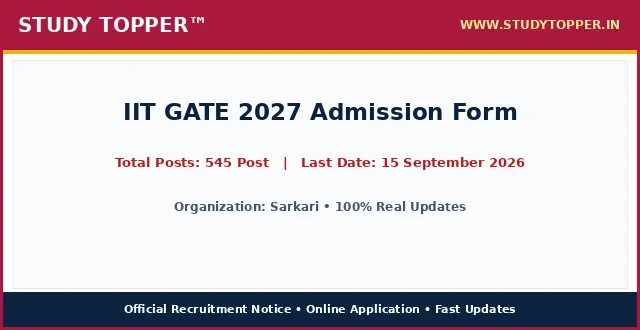
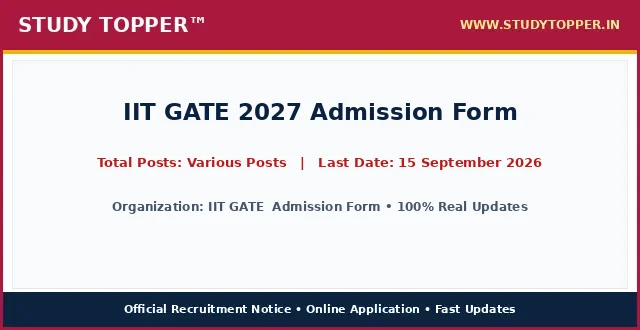
chore(lifecycle): daily auto-sort vacancies and update active dates

Changed region(s): [[0.1562, 0.4545, 0.8438, 0.5152], [0.1562, 0.6061, 0.8438, 0.6667]]

diff --git a/pages/iit-gate-2027.html b/pages/iit-gate-2027.html
@@ -987,12 +987,12 @@ ul.wp-block-latest-posts a:hover {
 <main class="site-main" id="main">
 <div class="gb-container gb-container-b39c368c">
 <h1 class="gb-headline gb-headline-e52a0102 gb-headline-text" style="font-size: 22px; font-weight: 700; color: #0000cd; text-align: left; margin: 8px 0 4px 0; line-height: 1.3; width: 100%; font-family: '-apple-system, BlinkMacSystemFont, 'Segoe UI', Roboto, 'Helvetica Neue', Arial, sans-serif', Times, serif, Hind, sans-serif;">IIT GATE 2027 Admission Form</h1>
-<div class="gb-container gb-container-659bd175"><p style="color: #cd0808; font-weight: 700; font-size: 15px; margin: 2px 0 7px 0; text-align: left; font-family: '-apple-system, BlinkMacSystemFont, 'Segoe UI', Roboto, 'Helvetica Neue', Arial, sans-serif', Times, serif, Hind, sans-serif;">Post Date: August 22, 2026 11:52 AM</p></div>
-<p class="gb-headline gb-headline-550ae316 short_Details gb-headline-text" style="width: 100%; max-width: 100%; font-size: 16.8px; line-height: 1.55; color: #000000; text-align: justify; text-justify: inter-word; margin: 8px 0 14px 0; display: block; font-family: '-apple-system, BlinkMacSystemFont, 'Segoe UI', Roboto, 'Helvetica Neue', Arial, sans-serif', Times, serif, Hind, sans-serif;"><strong style="color: #0000cd;">Sarkari</strong> has initiated the centralized online application process for <strong style="color: #cd0808;">IIT GATE 2027 Admission Form</strong> across recognized institutions and university departments. Eligible candidates seeking admission can complete the registration process before the specified deadline of 15 September 2026. The entrance evaluation and counselling allotment evaluate academic merit and entrance examination ranks. Prospective students must review detailed course eligibility, seat quotas, and reservation norms prior to submitting forms.</p>
+<div class="gb-container gb-container-659bd175"><p style="color: #cd0808; font-weight: 700; font-size: 15px; margin: 2px 0 7px 0; text-align: left; font-family: '-apple-system, BlinkMacSystemFont, 'Segoe UI', Roboto, 'Helvetica Neue', Arial, sans-serif', Times, serif, Hind, sans-serif;">Post Date: August 22, 2026 01:03 PM</p></div>
+<p class="gb-headline gb-headline-550ae316 short_Details gb-headline-text" style="width: 100%; max-width: 100%; font-size: 16.8px; line-height: 1.55; color: #000000; text-align: justify; text-justify: inter-word; margin: 8px 0 14px 0; display: block; font-family: '-apple-system, BlinkMacSystemFont, 'Segoe UI', Roboto, 'Helvetica Neue', Arial, sans-serif', Times, serif, Hind, sans-serif;"><strong style="color: #0000cd;">IIT GATE  Admission Form</strong> has initiated the centralized online application process for <strong style="color: #cd0808;">IIT GATE 2027 Admission Form</strong> across recognized institutions and university departments. Eligible candidates seeking admission can complete the registration process before the specified deadline of 15 September 2026. The entrance evaluation and counselling allotment evaluate academic merit and entrance examination ranks. Prospective students must review detailed course eligibility, seat quotas, and reservation norms prior to submitting forms.</p>
 <div class="gb-container gb-container-9849916c"><div class="social-buttons-compact" style="display: flex; justify-content: flex-start; align-items: center; gap: 10px; margin: 10px 0 16px 0; width: 100%;"><a class="social-btn-compact wa" href="https://whatsapp.com/channel/0029Va9xyz" rel="noopener" style="background-color: #00d084; color: #ffffff; padding: 10px 18px; border-radius: 4px; text-decoration: none; font-weight: bold; font-size: 15.5px; display: inline-flex; align-items: center; justify-content: center; height: auto;" target="_blank">WhatsApp</a><a class="social-btn-compact tg" href="https://t.me/studytopperofficial" rel="noopener" style="background-color: #0088cc; color: #ffffff; padding: 10px 18px; border-radius: 4px; text-decoration: none; font-weight: bold; font-size: 15.5px; display: inline-flex; align-items: center; justify-content: center; height: auto;" target="_blank">Telegram</a></div></div>
 <div class="gb-container gb-container-f58e6ca1" style="border: 2px solid #5b032f; border-radius: 4px; overflow: hidden; margin: 15px 0 20px 0; background-color: #ffffff; width: 100%; box-sizing: border-box;">
 <h2 class="gb-headline gb-headline-2ca5a791 gb-headline-text" style="font-size: 16px; font-weight: 700; text-align: center; color: #ef0303; line-height: 1.3; padding: 6px 4px; margin: 0; background: #ffffff; font-family: '-apple-system, BlinkMacSystemFont, 'Segoe UI', Roboto, 'Helvetica Neue', Arial, sans-serif', Times, serif, Hind, sans-serif;">IIT GATE 2027 Admission Form &ndash; Latest Details &amp; Updates</h2>
-<h3 class="gb-headline gb-headline-7d5f86e8 gb-headline-text" style="font-size: 16px; font-weight: 600; text-align: center; color: #009703; line-height: 1.25; margin: 0; padding: 2px 4px 6px 4px; background: #ffffff; font-family: '-apple-system, BlinkMacSystemFont, 'Segoe UI', Roboto, 'Helvetica Neue', Arial, sans-serif', Times, serif, Hind, sans-serif;">Sarkari : Details &amp; Summary</h3>
+<h3 class="gb-headline gb-headline-7d5f86e8 gb-headline-text" style="font-size: 16px; font-weight: 600; text-align: center; color: #009703; line-height: 1.25; margin: 0; padding: 2px 4px 6px 4px; background: #ffffff; font-family: '-apple-system, BlinkMacSystemFont, 'Segoe UI', Roboto, 'Helvetica Neue', Arial, sans-serif', Times, serif, Hind, sans-serif;">IIT GATE  Admission Form : Details &amp; Summary</h3>
 <p class="gb-headline gb-headline-79adf169 gb-headline-text" style="margin: 0 0 6px 0; font-family: '-apple-system, BlinkMacSystemFont, 'Segoe UI', Roboto, 'Helvetica Neue', Arial, sans-serif', Times, serif, Hind, sans-serif; text-align: center; font-size: 18px; font-weight: 700;"><a href="/" style="color: #0000ff; text-decoration: underline;">StudyTopper.in</a></p>
 
 <style id="st-post-boxes-responsive-css">
@@ -1025,7 +1025,7 @@ ul.wp-block-latest-posts a:hover {
     <div style="background-color: #5b032f; color: #ffffff; padding: 8px 10px; font-size: 20px; font-weight: 700; text-align: center; font-family: '-apple-system, BlinkMacSystemFont, 'Segoe UI', Roboto, 'Helvetica Neue', Arial, sans-serif', Times, serif, Hind, sans-serif;">Admission Schedule Dates</div>
     <div style="padding: 12px 14px; background-color: #ffffff;">
       <ul style="padding-left: 20px; margin: 0; list-style-type: disc; text-align: left; font-size: 14pt; line-height: 1.6; font-family: '-apple-system, BlinkMacSystemFont, 'Segoe UI', Roboto, 'Helvetica Neue', Arial, sans-serif', Times, serif, Hind, sans-serif;">
-        
+        <li><span style="font-size: 14pt;">Application Begin : <strong>Check Official Notification</strong></span></li><li><span style="font-size: 14pt;">Last Date for Apply Online : <span style="color: #ff0000;"><strong>15 September 2026</strong></span></span></li><li><span style="font-size: 14pt;">Pay Exam Fee Last Date : <span style="color: #ff0000;"><strong>15 September 2026</strong></span></span></li><li><span style="font-size: 14pt;">Exam Date : <strong>As per Schedule</strong></span></li>
       </ul>
     </div>
   </div>
@@ -1034,7 +1034,7 @@ ul.wp-block-latest-posts a:hover {
     <div style="background-color: #5b032f; color: #ffffff; padding: 8px 10px; font-size: 20px; font-weight: 700; text-align: center; font-family: '-apple-system, BlinkMacSystemFont, 'Segoe UI', Roboto, 'Helvetica Neue', Arial, sans-serif', Times, serif, Hind, sans-serif;">Application &amp; Counselling Fee</div>
     <div style="padding: 12px 14px; background-color: #ffffff;">
       <ul style="padding-left: 20px; margin: 0; list-style-type: disc; text-align: left; font-size: 14pt; line-height: 1.6; font-family: '-apple-system, BlinkMacSystemFont, 'Segoe UI', Roboto, 'Helvetica Neue', Arial, sans-serif', Times, serif, Hind, sans-serif;">
-        <li><span style="font-size: 14pt;">Bihar Police BPSSC Sub Inspector SI Prohibition Result 2026 Advt. No. : <strong>03/2026</strong></span></li><li><span style="font-size: 14pt;">UP Scholarship Online Form 2026 : <strong>2027</strong></span></li>
+        <li><span style="font-size: 14pt;">General / OBC / EWS : <strong>Check Official Notification</strong></span></li><li><span style="font-size: 14pt;">SC / ST / PH : <strong>Check Official Notification</strong></span></li><li><span style="font-size: 14pt;">Payment Mode : <strong>Online / Offline Fee Mode as per Notification</strong></span></li>
       </ul>
       <div style="margin-top: 10px; font-size: 14pt; line-height: 1.5; color: #000000; border-top: 1px dashed #ccc; padding-top: 8px; font-family: '-apple-system, BlinkMacSystemFont, 'Segoe UI', Roboto, 'Helvetica Neue', Arial, sans-serif', Times, serif, Hind, sans-serif;">
         <strong>Mode of Payment / Access:</strong> Online via Net Banking, Debit Card, Credit Card, UPI or Free Candidate Portal.
@@ -1047,10 +1047,10 @@ ul.wp-block-latest-posts a:hover {
 <div class="st-grid-row" style="display: flex; flex-wrap: wrap; width: 100%; border-top: 2px solid #5b032f; margin: 0; padding: 0; box-sizing: border-box;">
   <!-- Left Col: Age Limits -->
   <div class="st-col-half st-col-border-right" style="box-sizing: border-box; vertical-align: top;">
-    <div style="background-color: #046132; color: #ffffff; padding: 8px 10px; font-size: 17px; font-weight: 700; text-align: center; font-family: '-apple-system, BlinkMacSystemFont, 'Segoe UI', Roboto, 'Helvetica Neue', Arial, sans-serif', Times, serif, Hind, sans-serif;">Sarkari : Age Criteria As On 01 August 2026</div>
+    <div style="background-color: #046132; color: #ffffff; padding: 8px 10px; font-size: 17px; font-weight: 700; text-align: center; font-family: '-apple-system, BlinkMacSystemFont, 'Segoe UI', Roboto, 'Helvetica Neue', Arial, sans-serif', Times, serif, Hind, sans-serif;">IIT GATE  Admission Form : Age Criteria As On 01/08/2026</div>
     <div style="padding: 12px 14px; background-color: #ffffff;">
       <ul style="padding-left: 20px; margin: 0; list-style-type: disc; text-align: left; font-size: 14pt; line-height: 1.6; font-family: '-apple-system, BlinkMacSystemFont, 'Segoe UI', Roboto, 'Helvetica Neue', Arial, sans-serif', Times, serif, Hind, sans-serif;">
-        
+        <li><span style="font-size: 14pt;">Minimum Age : <strong>18 Years (As per post rules)</strong></span></li><li><span style="font-size: 14pt;">Maximum Age : <strong>40 Years (As per post rules)</strong></span></li><li><span style="font-size: 14pt;">Age Relaxation : <strong>Age Relaxation Extra as per IIT GATE  Admission Form Recruitment Rules.</strong></span></li>
       </ul>
     </div>
   </div>
@@ -1058,7 +1058,7 @@ ul.wp-block-latest-posts a:hover {
   <div class="st-col-half" style="box-sizing: border-box; vertical-align: top;">
     <div style="background-color: #f53c00; color: #ffffff; padding: 8px 10px; font-size: 20px; font-weight: 700; text-align: center; font-family: '-apple-system, BlinkMacSystemFont, 'Segoe UI', Roboto, 'Helvetica Neue', Arial, sans-serif', Times, serif, Hind, sans-serif;">Total Seats / Quota</div>
     <div style="padding: 24px 10px; background-color: #ffffff; text-align: center;">
-      <span style="font-size: 28px; font-weight: 800; color: #000000; font-family: '-apple-system, BlinkMacSystemFont, 'Segoe UI', Roboto, 'Helvetica Neue', Arial, sans-serif', Times, serif, Hind, sans-serif;">545 Post</span>
+      <span style="font-size: 28px; font-weight: 800; color: #000000; font-family: '-apple-system, BlinkMacSystemFont, 'Segoe UI', Roboto, 'Helvetica Neue', Arial, sans-serif', Times, serif, Hind, sans-serif;">Various Posts</span>
     </div>
   </div>
 </div>
@@ -1079,9 +1079,9 @@ ul.wp-block-latest-posts a:hover {
 <th style="background-color: #f53c00; color: #ffffff; padding: 6px 10px; text-align: center; border: 1px solid #d35400; font-size: 15px; font-weight: 700; font-family: '-apple-system, BlinkMacSystemFont, 'Segoe UI', Roboto, 'Helvetica Neue', Arial, sans-serif', Times, serif, Hind, sans-serif;">Educational Qualification &amp; Eligibility</th>
 </tr>
 <tr>
-<td style="padding: 8px; border: 1px solid #ddd; font-weight: bold;">Sarkari Recruitment</td>
-<td style="padding: 8px; border: 1px solid #ddd; text-align: center; font-weight: bold;">545 Post</td>
-<td style="padding: 8px; border: 1px solid #ddd;">Please refer to the official notification linked below for detailed educational qualifications.</td>
+<td style="padding: 8px; border: 1px solid #ddd; font-weight: bold;">IIT GATE 2027 Admission Form</td>
+<td style="padding: 8px; border: 1px solid #ddd; text-align: center; font-weight: bold;">Various Posts</td>
+<td style="padding: 8px; border: 1px solid #ddd;">Passed prescribed Educational Qualification from Any Recognized Board / University in India. Read full official notification for post-wise eligibility criteria.</td>
 </tr>
 </tbody>
 </table>
@@ -1093,7 +1093,7 @@ ul.wp-block-latest-posts a:hover {
 <table style="border-collapse: collapse; width: 100%;">
 <tbody>
 <tr>
-<td style="width: 100%; text-align: center;"><span style="background-color: #000080; color: #ffffff; font-size: 14pt; font-weight: bold; display: block; padding: 6px;"> How to Apply for Sarkari Online Admission Form 2026 </span></td>
+<td style="width: 100%; text-align: center;"><span style="background-color: #000080; color: #ffffff; font-size: 14pt; font-weight: bold; display: block; padding: 6px;"> How to Apply for IIT GATE  Admission Form Online Admission Form 2026 </span></td>
 </tr>
 <tr>
 <td style="width: 100%;"><ol style="margin:0; padding-left:18px; text-align: left !important; list-style-position: outside !important"><li style="margin-bottom:6px; text-align: left !important;">Read the official recruitment notification carefully before applying.</li><li style="margin-bottom:6px; text-align: left !important;">Keep all basic documents ready: ID Proof, Address Details, Basic Details.</li><li style="margin-bottom:6px; text-align: left !important;">Ready your scanned documents like Photo, Signature, ID Proof, etc.</li><li style="margin-bottom:6px; text-align: left !important;">Click on the 'Apply Online' link given in the Important Links section below.</li><li style="margin-bottom:6px; text-align: left !important;">Fill out all the columns in the application form accurately.</li><li style="margin-bottom:6px; text-align: left !important;">Pay the required application fee if applicable.</li><li style="margin-bottom:6px; text-align: left !important;">Take a printout of the final submitted application form.</li><li style="margin-bottom:6px; text-align: left !important;">Resize candidate photograph and signature accurately using the <a href="https://indtool.in" rel="noopener" target="_blank"><strong>StudyTopper Tools</strong></a> image resizer at indtool.in.</li></ol></td>
@@ -1104,7 +1104,7 @@ ul.wp-block-latest-posts a:hover {
 <table style="border-collapse: collapse; width: 100%;">
 <tbody>
 <tr>
-<td style="width: 100%; text-align: center;"><span style="background-color: #000080; color: #ffffff; font-size: 14pt;"><strong><span style="color: #ffffff;"> Sarkari Admission 2026 : Mode of Selection &amp; Counselling </span></strong></span></td>
+<td style="width: 100%; text-align: center;"><span style="background-color: #000080; color: #ffffff; font-size: 14pt;"><strong><span style="color: #ffffff;"> IIT GATE  Admission Form Admission 2026 : Mode of Selection &amp; Counselling </span></strong></span></td>
 </tr>
 <tr>
 <td style="width: 100%;">
@@ -1144,26 +1144,50 @@ ul.wp-block-latest-posts a:hover {
 
 <tr style="border-bottom: 1px solid #000000; background-color: #fff37a;">
 <td style="width: 50%; padding: 14px 16px; border-right: 1px solid #000000; text-align: center;">
-<span style="font-size: 19px; font-weight: 800; color: #000000; font-family: '-apple-system, BlinkMacSystemFont, 'Segoe UI', Roboto, 'Helvetica Neue', Arial, sans-serif', Times, serif, Hind, sans-serif;">Apply Online (Registration / Login)</span>
+<span style="font-size: 19px; font-weight: 800; color: #000000; font-family: '-apple-system, BlinkMacSystemFont, 'Segoe UI', Roboto, 'Helvetica Neue', Arial, sans-serif', Times, serif, Hind, sans-serif;">Join Our WhatsApp Channel</span>
 </td>
 <td style="width: 50%; padding: 14px 16px; text-align: center;">
-<span style="font-size: 20px; font-weight: 800; font-family: '-apple-system, BlinkMacSystemFont, 'Segoe UI', Roboto, 'Helvetica Neue', Arial, sans-serif', Times, serif, Hind, sans-serif;"><a href="https://www.sarkariresult.com/2026/mpesb-group2-subgroup-4-aug26/" aria-label="Click Here for Apply Online (Registration / Login) - IIT GATE 2027 Admission Form" rel="noopener noreferrer" style="color: #0000ef; font-weight: 800; text-decoration: none;" target="_blank">Click Here</a></span>
+<span style="font-size: 20px; font-weight: 800; font-family: '-apple-system, BlinkMacSystemFont, 'Segoe UI', Roboto, 'Helvetica Neue', Arial, sans-serif', Times, serif, Hind, sans-serif;"><a href="https://whatsapp.com/channel/0029VaAbQf01NCrYADMLt00L" aria-label="Click Here for Join Our WhatsApp Channel - IIT GATE 2027 Admission Form" rel="noopener noreferrer" style="color: #0000ef; font-weight: 800; text-decoration: none;" target="_blank">Click Here</a></span>
 </td>
 </tr>
 <tr style="border-bottom: 1px solid #000000; background-color: #fff37a;">
 <td style="width: 50%; padding: 14px 16px; border-right: 1px solid #000000; text-align: center;">
-<span style="font-size: 19px; font-weight: 800; color: #000000; font-family: '-apple-system, BlinkMacSystemFont, 'Segoe UI', Roboto, 'Helvetica Neue', Arial, sans-serif', Times, serif, Hind, sans-serif;">Download Information Brochure PDF</span>
+<span style="font-size: 19px; font-weight: 800; color: #000000; font-family: '-apple-system, BlinkMacSystemFont, 'Segoe UI', Roboto, 'Helvetica Neue', Arial, sans-serif', Times, serif, Hind, sans-serif;">Join Our Telegram Channel</span>
 </td>
 <td style="width: 50%; padding: 14px 16px; text-align: center;">
-<span style="font-size: 20px; font-weight: 800; font-family: '-apple-system, BlinkMacSystemFont, 'Segoe UI', Roboto, 'Helvetica Neue', Arial, sans-serif', Times, serif, Hind, sans-serif;"><a href="" aria-label="Click Here for Download Information Brochure PDF - IIT GATE 2027 Admission Form" rel="noopener noreferrer" style="color: #0000ef; font-weight: 800; text-decoration: none;" target="_blank">Click Here</a></span>
+<span style="font-size: 20px; font-weight: 800; font-family: '-apple-system, BlinkMacSystemFont, 'Segoe UI', Roboto, 'Helvetica Neue', Arial, sans-serif', Times, serif, Hind, sans-serif;"><a href="https://t.me/SarkariExam_info" aria-label="Click Here for Join Our Telegram Channel - IIT GATE 2027 Admission Form" rel="noopener noreferrer" style="color: #0000ef; font-weight: 800; text-decoration: none;" target="_blank">Click Here</a></span>
 </td>
 </tr>
 <tr style="border-bottom: 1px solid #000000; background-color: #fff37a;">
 <td style="width: 50%; padding: 14px 16px; border-right: 1px solid #000000; text-align: center;">
-<span style="font-size: 19px; font-weight: 800; color: #000000; font-family: '-apple-system, BlinkMacSystemFont, 'Segoe UI', Roboto, 'Helvetica Neue', Arial, sans-serif', Times, serif, Hind, sans-serif;">Photo / Sign Resizer Tool</span>
+<span style="font-size: 19px; font-weight: 800; color: #000000; font-family: '-apple-system, BlinkMacSystemFont, 'Segoe UI', Roboto, 'Helvetica Neue', Arial, sans-serif', Times, serif, Hind, sans-serif;">Apply Online</span>
 </td>
 <td style="width: 50%; padding: 14px 16px; text-align: center;">
-<span style="font-size: 20px; font-weight: 800; font-family: '-apple-system, BlinkMacSystemFont, 'Segoe UI', Roboto, 'Helvetica Neue', Arial, sans-serif', Times, serif, Hind, sans-serif;"><a href="https://indtool.in" aria-label="Click Here for Photo / Sign Resizer Tool - IIT GATE 2027 Admission Form" rel="noopener noreferrer" style="color: #0000ef; font-weight: 800; text-decoration: none;" target="_blank">Click Here</a></span>
+<span style="font-size: 20px; font-weight: 800; font-family: '-apple-system, BlinkMacSystemFont, 'Segoe UI', Roboto, 'Helvetica Neue', Arial, sans-serif', Times, serif, Hind, sans-serif;"><a href="https://whatsapp.com/channel/0029VaAbQf01NCrYADMLt00L" aria-label="Click Here for Apply Online - IIT GATE 2027 Admission Form" rel="noopener noreferrer" style="color: #0000ef; font-weight: 800; text-decoration: none;" target="_blank">Click Here</a></span>
+</td>
+</tr>
+<tr style="border-bottom: 1px solid #000000; background-color: #fff37a;">
+<td style="width: 50%; padding: 14px 16px; border-right: 1px solid #000000; text-align: center;">
+<span style="font-size: 19px; font-weight: 800; color: #000000; font-family: '-apple-system, BlinkMacSystemFont, 'Segoe UI', Roboto, 'Helvetica Neue', Arial, sans-serif', Times, serif, Hind, sans-serif;">Check Apply Date Change Notice</span>
+</td>
+<td style="width: 50%; padding: 14px 16px; text-align: center;">
+<span style="font-size: 20px; font-weight: 800; font-family: '-apple-system, BlinkMacSystemFont, 'Segoe UI', Roboto, 'Helvetica Neue', Arial, sans-serif', Times, serif, Hind, sans-serif;"><a href="https://gate2027.iitm.ac.in/important_dates" aria-label="Click Here for Check Apply Date Change Notice - IIT GATE 2027 Admission Form" rel="noopener noreferrer" style="color: #0000ef; font-weight: 800; text-decoration: none;" target="_blank">Click Here</a></span>
+</td>
+</tr>
+<tr style="border-bottom: 1px solid #000000; background-color: #fff37a;">
+<td style="width: 50%; padding: 14px 16px; border-right: 1px solid #000000; text-align: center;">
+<span style="font-size: 19px; font-weight: 800; color: #000000; font-family: '-apple-system, BlinkMacSystemFont, 'Segoe UI', Roboto, 'Helvetica Neue', Arial, sans-serif', Times, serif, Hind, sans-serif;">Check Photo / Signature Guidlines</span>
+</td>
+<td style="width: 50%; padding: 14px 16px; text-align: center;">
+<span style="font-size: 20px; font-weight: 800; font-family: '-apple-system, BlinkMacSystemFont, 'Segoe UI', Roboto, 'Helvetica Neue', Arial, sans-serif', Times, serif, Hind, sans-serif;"><a href="https://gate2027.iitm.ac.in/photograph_and_signature" aria-label="Click Here for Check Photo / Signature Guidlines - IIT GATE 2027 Admission Form" rel="noopener noreferrer" style="color: #0000ef; font-weight: 800; text-decoration: none;" target="_blank">Click Here</a></span>
+</td>
+</tr>
+<tr style="border-bottom: 1px solid #000000; background-color: #fff37a;">
+<td style="width: 50%; padding: 14px 16px; border-right: 1px solid #000000; text-align: center;">
+<span style="font-size: 19px; font-weight: 800; color: #000000; font-family: '-apple-system, BlinkMacSystemFont, 'Segoe UI', Roboto, 'Helvetica Neue', Arial, sans-serif', Times, serif, Hind, sans-serif;">Check Official Notification</span>
+</td>
+<td style="width: 50%; padding: 14px 16px; text-align: center;">
+<span style="font-size: 20px; font-weight: 800; font-family: '-apple-system, BlinkMacSystemFont, 'Segoe UI', Roboto, 'Helvetica Neue', Arial, sans-serif', Times, serif, Hind, sans-serif;"><a href="https://gate2027.iitm.ac.in/static/doc/IB/GATE2027-IB_v1.pdf" aria-label="Click Here for Check Official Notification - IIT GATE 2027 Admission Form" rel="noopener noreferrer" style="color: #0000ef; font-weight: 800; text-decoration: none;" target="_blank">Click Here</a></span>
 </td>
 </tr>
 <tr style="border-bottom: 1px solid #000000; background-color: #fff37a;">
@@ -1171,15 +1195,55 @@ ul.wp-block-latest-posts a:hover {
 <span style="font-size: 19px; font-weight: 800; color: #000000; font-family: '-apple-system, BlinkMacSystemFont, 'Segoe UI', Roboto, 'Helvetica Neue', Arial, sans-serif', Times, serif, Hind, sans-serif;">Check Sarkari Result</span>
 </td>
 <td style="width: 50%; padding: 14px 16px; text-align: center;">
-<span style="font-size: 20px; font-weight: 800; font-family: '-apple-system, BlinkMacSystemFont, 'Segoe UI', Roboto, 'Helvetica Neue', Arial, sans-serif', Times, serif, Hind, sans-serif;"><a href="/" aria-label="Click Here for Check Sarkari Result - IIT GATE 2027 Admission Form" rel="noopener noreferrer" style="color: #0000ef; font-weight: 800; text-decoration: none;" >Click Here</a></span>
+<span style="font-size: 20px; font-weight: 800; font-family: '-apple-system, BlinkMacSystemFont, 'Segoe UI', Roboto, 'Helvetica Neue', Arial, sans-serif', Times, serif, Hind, sans-serif;"><a href="https://sarkariresult.com.cm/" aria-label="Click Here for Check Sarkari Result - IIT GATE 2027 Admission Form" rel="noopener noreferrer" style="color: #0000ef; font-weight: 800; text-decoration: none;" target="_blank">Click Here</a></span>
+</td>
+</tr>
+<tr style="border-bottom: 1px solid #000000; background-color: #fff37a;">
+<td style="width: 50%; padding: 14px 16px; border-right: 1px solid #000000; text-align: center;">
+<span style="font-size: 19px; font-weight: 800; color: #000000; font-family: '-apple-system, BlinkMacSystemFont, 'Segoe UI', Roboto, 'Helvetica Neue', Arial, sans-serif', Times, serif, Hind, sans-serif;">IIT GATE Official Website</span>
+</td>
+<td style="width: 50%; padding: 14px 16px; text-align: center;">
+<span style="font-size: 20px; font-weight: 800; font-family: '-apple-system, BlinkMacSystemFont, 'Segoe UI', Roboto, 'Helvetica Neue', Arial, sans-serif', Times, serif, Hind, sans-serif;"><a href="https://gate2027.iitm.ac.in/" aria-label="Click Here for IIT GATE Official Website - IIT GATE 2027 Admission Form" rel="noopener noreferrer" style="color: #0000ef; font-weight: 800; text-decoration: none;" target="_blank">Click Here</a></span>
+</td>
+</tr>
+<tr style="border-bottom: 1px solid #000000; background-color: #fff37a;">
+<td style="width: 50%; padding: 14px 16px; border-right: 1px solid #000000; text-align: center;">
+<span style="font-size: 19px; font-weight: 800; color: #000000; font-family: '-apple-system, BlinkMacSystemFont, 'Segoe UI', Roboto, 'Helvetica Neue', Arial, sans-serif', Times, serif, Hind, sans-serif;">Latest Posts Haryana HTET Score Card 2026 – Out SSC Delhi Police Constable (Executive) PE & MT Notice 2026 UPSC CDS-II Final Result With Marks 2026 IDBI JAM Final Result 2026 Railway RRB ALP Application Status 2026 – Out</span>
+</td>
+<td style="width: 50%; padding: 14px 16px; text-align: center;">
+<span style="font-size: 20px; font-weight: 800; font-family: '-apple-system, BlinkMacSystemFont, 'Segoe UI', Roboto, 'Helvetica Neue', Arial, sans-serif', Times, serif, Hind, sans-serif;"><a href="https://sarkariresult.com.cm/ssc-delhi-police-constable-executive-2026/" aria-label="Click Here for Latest Posts Haryana HTET Score Card 2026 – Out SSC Delhi Police Constable (Executive) PE & MT Notice 2026 UPSC CDS-II Final Result With Marks 2026 IDBI JAM Final Result 2026 Railway RRB ALP Application Status 2026 – Out - IIT GATE 2027 Admission Form" rel="noopener noreferrer" style="color: #0000ef; font-weight: 800; text-decoration: none;" target="_blank">Click Here</a></span>
+</td>
+</tr>
+<tr style="border-bottom: 1px solid #000000; background-color: #fff37a;">
+<td style="width: 50%; padding: 14px 16px; border-right: 1px solid #000000; text-align: center;">
+<span style="font-size: 19px; font-weight: 800; color: #000000; font-family: '-apple-system, BlinkMacSystemFont, 'Segoe UI', Roboto, 'Helvetica Neue', Arial, sans-serif', Times, serif, Hind, sans-serif;">Latest Posts Haryana HTET Score Card 2026 – Out SSC Delhi Police Constable (Executive) PE & MT Notice 2026 UPSC CDS-II Final Result With Marks 2026 IDBI JAM Final Result 2026 Railway RRB ALP Application Status 2026 – Out</span>
+</td>
+<td style="width: 50%; padding: 14px 16px; text-align: center;">
+<span style="font-size: 20px; font-weight: 800; font-family: '-apple-system, BlinkMacSystemFont, 'Segoe UI', Roboto, 'Helvetica Neue', Arial, sans-serif', Times, serif, Hind, sans-serif;"><a href="https://sarkariresult.com.cm/ssc-selection-phase-14-2026/" aria-label="Click Here for Latest Posts Haryana HTET Score Card 2026 – Out SSC Delhi Police Constable (Executive) PE & MT Notice 2026 UPSC CDS-II Final Result With Marks 2026 IDBI JAM Final Result 2026 Railway RRB ALP Application Status 2026 – Out - IIT GATE 2027 Admission Form" rel="noopener noreferrer" style="color: #0000ef; font-weight: 800; text-decoration: none;" target="_blank">Click Here</a></span>
+</td>
+</tr>
+<tr style="border-bottom: 1px solid #000000; background-color: #fff37a;">
+<td style="width: 50%; padding: 14px 16px; border-right: 1px solid #000000; text-align: center;">
+<span style="font-size: 19px; font-weight: 800; color: #000000; font-family: '-apple-system, BlinkMacSystemFont, 'Segoe UI', Roboto, 'Helvetica Neue', Arial, sans-serif', Times, serif, Hind, sans-serif;">Latest Posts Haryana HTET Score Card 2026 – Out SSC Delhi Police Constable (Executive) PE & MT Notice 2026 UPSC CDS-II Final Result With Marks 2026 IDBI JAM Final Result 2026 Railway RRB ALP Application Status 2026 – Out</span>
+</td>
+<td style="width: 50%; padding: 14px 16px; text-align: center;">
+<span style="font-size: 20px; font-weight: 800; font-family: '-apple-system, BlinkMacSystemFont, 'Segoe UI', Roboto, 'Helvetica Neue', Arial, sans-serif', Times, serif, Hind, sans-serif;"><a href="https://sarkariresult.com.cm/upsssc-stenographer-2025/" aria-label="Click Here for Latest Posts Haryana HTET Score Card 2026 – Out SSC Delhi Police Constable (Executive) PE & MT Notice 2026 UPSC CDS-II Final Result With Marks 2026 IDBI JAM Final Result 2026 Railway RRB ALP Application Status 2026 – Out - IIT GATE 2027 Admission Form" rel="noopener noreferrer" style="color: #0000ef; font-weight: 800; text-decoration: none;" target="_blank">Click Here</a></span>
+</td>
+</tr>
+<tr style="border-bottom: 1px solid #000000; background-color: #fff37a;">
+<td style="width: 50%; padding: 14px 16px; border-right: 1px solid #000000; text-align: center;">
+<span style="font-size: 19px; font-weight: 800; color: #000000; font-family: '-apple-system, BlinkMacSystemFont, 'Segoe UI', Roboto, 'Helvetica Neue', Arial, sans-serif', Times, serif, Hind, sans-serif;">Latest Posts Haryana HTET Score Card 2026 – Out SSC Delhi Police Constable (Executive) PE & MT Notice 2026 UPSC CDS-II Final Result With Marks 2026 IDBI JAM Final Result 2026 Railway RRB ALP Application Status 2026 – Out</span>
+</td>
+<td style="width: 50%; padding: 14px 16px; text-align: center;">
+<span style="font-size: 20px; font-weight: 800; font-family: '-apple-system, BlinkMacSystemFont, 'Segoe UI', Roboto, 'Helvetica Neue', Arial, sans-serif', Times, serif, Hind, sans-serif;"><a href="https://sarkariresult.com.cm/railway-rrb-group-d-level-1-recruitment-2026-online/" aria-label="Click Here for Latest Posts Haryana HTET Score Card 2026 – Out SSC Delhi Police Constable (Executive) PE & MT Notice 2026 UPSC CDS-II Final Result With Marks 2026 IDBI JAM Final Result 2026 Railway RRB ALP Application Status 2026 – Out - IIT GATE 2027 Admission Form" rel="noopener noreferrer" style="color: #0000ef; font-weight: 800; text-decoration: none;" target="_blank">Click Here</a></span>
 </td>
 </tr>
 <tr style=" background-color: #fff37a;">
 <td style="width: 50%; padding: 14px 16px; border-right: 1px solid #000000; text-align: center;">
-<span style="font-size: 19px; font-weight: 800; color: #000000; font-family: '-apple-system, BlinkMacSystemFont, 'Segoe UI', Roboto, 'Helvetica Neue', Arial, sans-serif', Times, serif, Hind, sans-serif;">Sarkari Website</span>
+<span style="font-size: 19px; font-weight: 800; color: #000000; font-family: '-apple-system, BlinkMacSystemFont, 'Segoe UI', Roboto, 'Helvetica Neue', Arial, sans-serif', Times, serif, Hind, sans-serif;">Latest Posts Haryana HTET Score Card 2026 – Out SSC Delhi Police Constable (Executive) PE & MT Notice 2026 UPSC CDS-II Final Result With Marks 2026 IDBI JAM Final Result 2026 Railway RRB ALP Application Status 2026 – Out</span>
 </td>
 <td style="width: 50%; padding: 14px 16px; text-align: center;">
-<span style="font-size: 20px; font-weight: 800; font-family: '-apple-system, BlinkMacSystemFont, 'Segoe UI', Roboto, 'Helvetica Neue', Arial, sans-serif', Times, serif, Hind, sans-serif;"><a href="" aria-label="Click Here for Sarkari Website - IIT GATE 2027 Admission Form" rel="noopener noreferrer" style="color: #0000ef; font-weight: 800; text-decoration: none;" target="_blank">Click Here</a></span>
+<span style="font-size: 20px; font-weight: 800; font-family: '-apple-system, BlinkMacSystemFont, 'Segoe UI', Roboto, 'Helvetica Neue', Arial, sans-serif', Times, serif, Hind, sans-serif;"><a href="https://sarkariresult.com.cm/uppsc-gic-lecturer-2025/" aria-label="Click Here for Latest Posts Haryana HTET Score Card 2026 – Out SSC Delhi Police Constable (Executive) PE & MT Notice 2026 UPSC CDS-II Final Result With Marks 2026 IDBI JAM Final Result 2026 Railway RRB ALP Application Status 2026 – Out - IIT GATE 2027 Admission Form" rel="noopener noreferrer" style="color: #0000ef; font-weight: 800; text-decoration: none;" target="_blank">Click Here</a></span>
 </td>
 </tr>
 </tbody>

diff --git a/index.html b/index.html
@@ -1636,7 +1636,7 @@ ul.wp-block-latest-posts a:hover {
 </div></div></div>
 <div class="gb-grid-column gb-grid-column-51daea0e"><div class="gb-container gb-container-51daea0e"><div class="gb-inside-container">
 <p class="gb-headline gb-headline-4a4924a5 gb-headline-text" style="background-color:#ab183d !important; color:#ffffff !important; text-align:center; font-weight:700; padding:6px 0;">Admission</p>
-<ul class="wp-block-latest-posts__list 6colm_box wp-block-latest-posts"><li><a class="wp-block-latest-posts__post-title" href="/bihar-stet-2026/">Bihar STET Online Form 2026</a></li><li><a class="wp-block-latest-posts__post-title" href="/iim-cat-2026/">IIM CAT 2026 Admission Form</a></li><li><a class="wp-block-latest-posts__post-title" href="/iit-gate-2027/">IIT GATE 2027 Admission Form</a></li><li><a class="wp-block-latest-posts__post-title" href="/iit-jam-2027/">IIT JAM Admission Form 2026</a></li><li><a class="wp-block-latest-posts__post-title" href="/2026-aibe-22th-aug26/">AIBE 22th Online Form 2026</a></li><li><a class="wp-block-latest-posts__post-title" href="/clat-2026/">CLAT Admission Form 2026</a></li><li><a class="wp-block-latest-posts__post-title" href="/bihar-bseb-deled-2026/">Bihar BSEB DElEd Common Application Form 2026</a></li></ul>
+<ul class="wp-block-latest-posts__list 6colm_box wp-block-latest-posts"><li><a class="wp-block-latest-posts__post-title" href="/bihar-stet-2026/">Bihar STET Online Form 2026</a></li><li><a class="wp-block-latest-posts__post-title" href="/iit-gate-2027/">IIT GATE 2027 Admission Form</a></li><li><a class="wp-block-latest-posts__post-title" href="/iim-cat-2026/">IIM CAT 2026 Admission Form</a></li><li><a class="wp-block-latest-posts__post-title" href="/iit-jam-2027/">IIT JAM Admission Form 2026</a></li><li><a class="wp-block-latest-posts__post-title" href="/2026-aibe-22th-aug26/">AIBE 22th Online Form 2026</a></li><li><a class="wp-block-latest-posts__post-title" href="/clat-2026/">CLAT Admission Form 2026</a></li><li><a class="wp-block-latest-posts__post-title" href="/bihar-bseb-deled-2026/">Bihar BSEB DElEd Common Application Form 2026</a></li></ul>
 <div class="wp-block-buttons is-content-justification-right is-layout-flex wp-container-core-buttons-is-layout-89b4c9e9 wp-block-buttons-is-layout-flex">
 <div class="wp-block-button"><a class="wp-block-button__link has-base-2-color has-accent-2-background-color has-text-color has-background has-link-color wp-element-button" href="/admission/" rel="noreferrer noopener" target="_blank"><strong>View More</strong></a></div>
 </div>

diff --git a/pages/index.html b/pages/index.html
@@ -1636,7 +1636,7 @@ ul.wp-block-latest-posts a:hover {
 </div></div></div>
 <div class="gb-grid-column gb-grid-column-51daea0e"><div class="gb-container gb-container-51daea0e"><div class="gb-inside-container">
 <p class="gb-headline gb-headline-4a4924a5 gb-headline-text" style="background-color:#ab183d !important; color:#ffffff !important; text-align:center; font-weight:700; padding:6px 0;">Admission</p>
-<ul class="wp-block-latest-posts__list 6colm_box wp-block-latest-posts"><li><a class="wp-block-latest-posts__post-title" href="/bihar-stet-2026/">Bihar STET Online Form 2026</a></li><li><a class="wp-block-latest-posts__post-title" href="/iim-cat-2026/">IIM CAT 2026 Admission Form</a></li><li><a class="wp-block-latest-posts__post-title" href="/iit-gate-2027/">IIT GATE 2027 Admission Form</a></li><li><a class="wp-block-latest-posts__post-title" href="/iit-jam-2027/">IIT JAM Admission Form 2026</a></li><li><a class="wp-block-latest-posts__post-title" href="/2026-aibe-22th-aug26/">AIBE 22th Online Form 2026</a></li><li><a class="wp-block-latest-posts__post-title" href="/clat-2026/">CLAT Admission Form 2026</a></li><li><a class="wp-block-latest-posts__post-title" href="/bihar-bseb-deled-2026/">Bihar BSEB DElEd Common Application Form 2026</a></li></ul>
+<ul class="wp-block-latest-posts__list 6colm_box wp-block-latest-posts"><li><a class="wp-block-latest-posts__post-title" href="/bihar-stet-2026/">Bihar STET Online Form 2026</a></li><li><a class="wp-block-latest-posts__post-title" href="/iit-gate-2027/">IIT GATE 2027 Admission Form</a></li><li><a class="wp-block-latest-posts__post-title" href="/iim-cat-2026/">IIM CAT 2026 Admission Form</a></li><li><a class="wp-block-latest-posts__post-title" href="/iit-jam-2027/">IIT JAM Admission Form 2026</a></li><li><a class="wp-block-latest-posts__post-title" href="/2026-aibe-22th-aug26/">AIBE 22th Online Form 2026</a></li><li><a class="wp-block-latest-posts__post-title" href="/clat-2026/">CLAT Admission Form 2026</a></li><li><a class="wp-block-latest-posts__post-title" href="/bihar-bseb-deled-2026/">Bihar BSEB DElEd Common Application Form 2026</a></li></ul>
 <div class="wp-block-buttons is-content-justification-right is-layout-flex wp-container-core-buttons-is-layout-89b4c9e9 wp-block-buttons-is-layout-flex">
 <div class="wp-block-button"><a class="wp-block-button__link has-base-2-color has-accent-2-background-color has-text-color has-background has-link-color wp-element-button" href="/admission/" rel="noreferrer noopener" target="_blank"><strong>View More</strong></a></div>
 </div>

diff --git a/original_index.html b/original_index.html
@@ -1099,7 +1099,7 @@ ul.wp-block-latest-posts a:hover {
 </div></div></div>
 <div class="gb-grid-column gb-grid-column-51daea0e"><div class="gb-container gb-container-51daea0e"><div class="gb-inside-container">
 <p class="gb-headline gb-headline-4a4924a5 gb-headline-text"><strong>Admission</strong></p>
-<ul class="wp-block-latest-posts__list 6colm_box wp-block-latest-posts"><li><a class="wp-block-latest-posts__post-title" href="/bihar-stet-2026/">Bihar STET Online Form 2026</a></li><li><a class="wp-block-latest-posts__post-title" href="/iim-cat-2026/">IIM CAT 2026 Admission Form</a></li><li><a class="wp-block-latest-posts__post-title" href="/iit-gate-2027/">IIT GATE 2027 Admission Form</a></li><li><a class="wp-block-latest-posts__post-title" href="/iit-jam-2027/">IIT JAM Admission Form 2026</a></li><li><a class="wp-block-latest-posts__post-title" href="/2026-aibe-22th-aug26/">AIBE 22th Online Form 2026</a></li><li><a class="wp-block-latest-posts__post-title" href="/clat-2026/">CLAT Admission Form 2026</a></li><li><a class="wp-block-latest-posts__post-title" href="/bihar-bseb-deled-2026/">Bihar BSEB DElEd Common Application Form 2026</a></li></ul>
+<ul class="wp-block-latest-posts__list 6colm_box wp-block-latest-posts"><li><a class="wp-block-latest-posts__post-title" href="/bihar-stet-2026/">Bihar STET Online Form 2026</a></li><li><a class="wp-block-latest-posts__post-title" href="/iit-gate-2027/">IIT GATE 2027 Admission Form</a></li><li><a class="wp-block-latest-posts__post-title" href="/iim-cat-2026/">IIM CAT 2026 Admission Form</a></li><li><a class="wp-block-latest-posts__post-title" href="/iit-jam-2027/">IIT JAM Admission Form 2026</a></li><li><a class="wp-block-latest-posts__post-title" href="/2026-aibe-22th-aug26/">AIBE 22th Online Form 2026</a></li><li><a class="wp-block-latest-posts__post-title" href="/clat-2026/">CLAT Admission Form 2026</a></li><li><a class="wp-block-latest-posts__post-title" href="/bihar-bseb-deled-2026/">Bihar BSEB DElEd Common Application Form 2026</a></li></ul>
 <div class="wp-block-buttons is-content-justification-right is-layout-flex wp-container-core-buttons-is-layout-89b4c9e9 wp-block-buttons-is-layout-flex">
 <div class="wp-block-button"><a class="wp-block-button__link has-base-2-color has-accent-2-background-color has-text-color has-background has-link-color wp-element-button" href="/admission/" rel="noreferrer noopener" target="_blank"><strong>View More</strong></a></div>
 </div>
